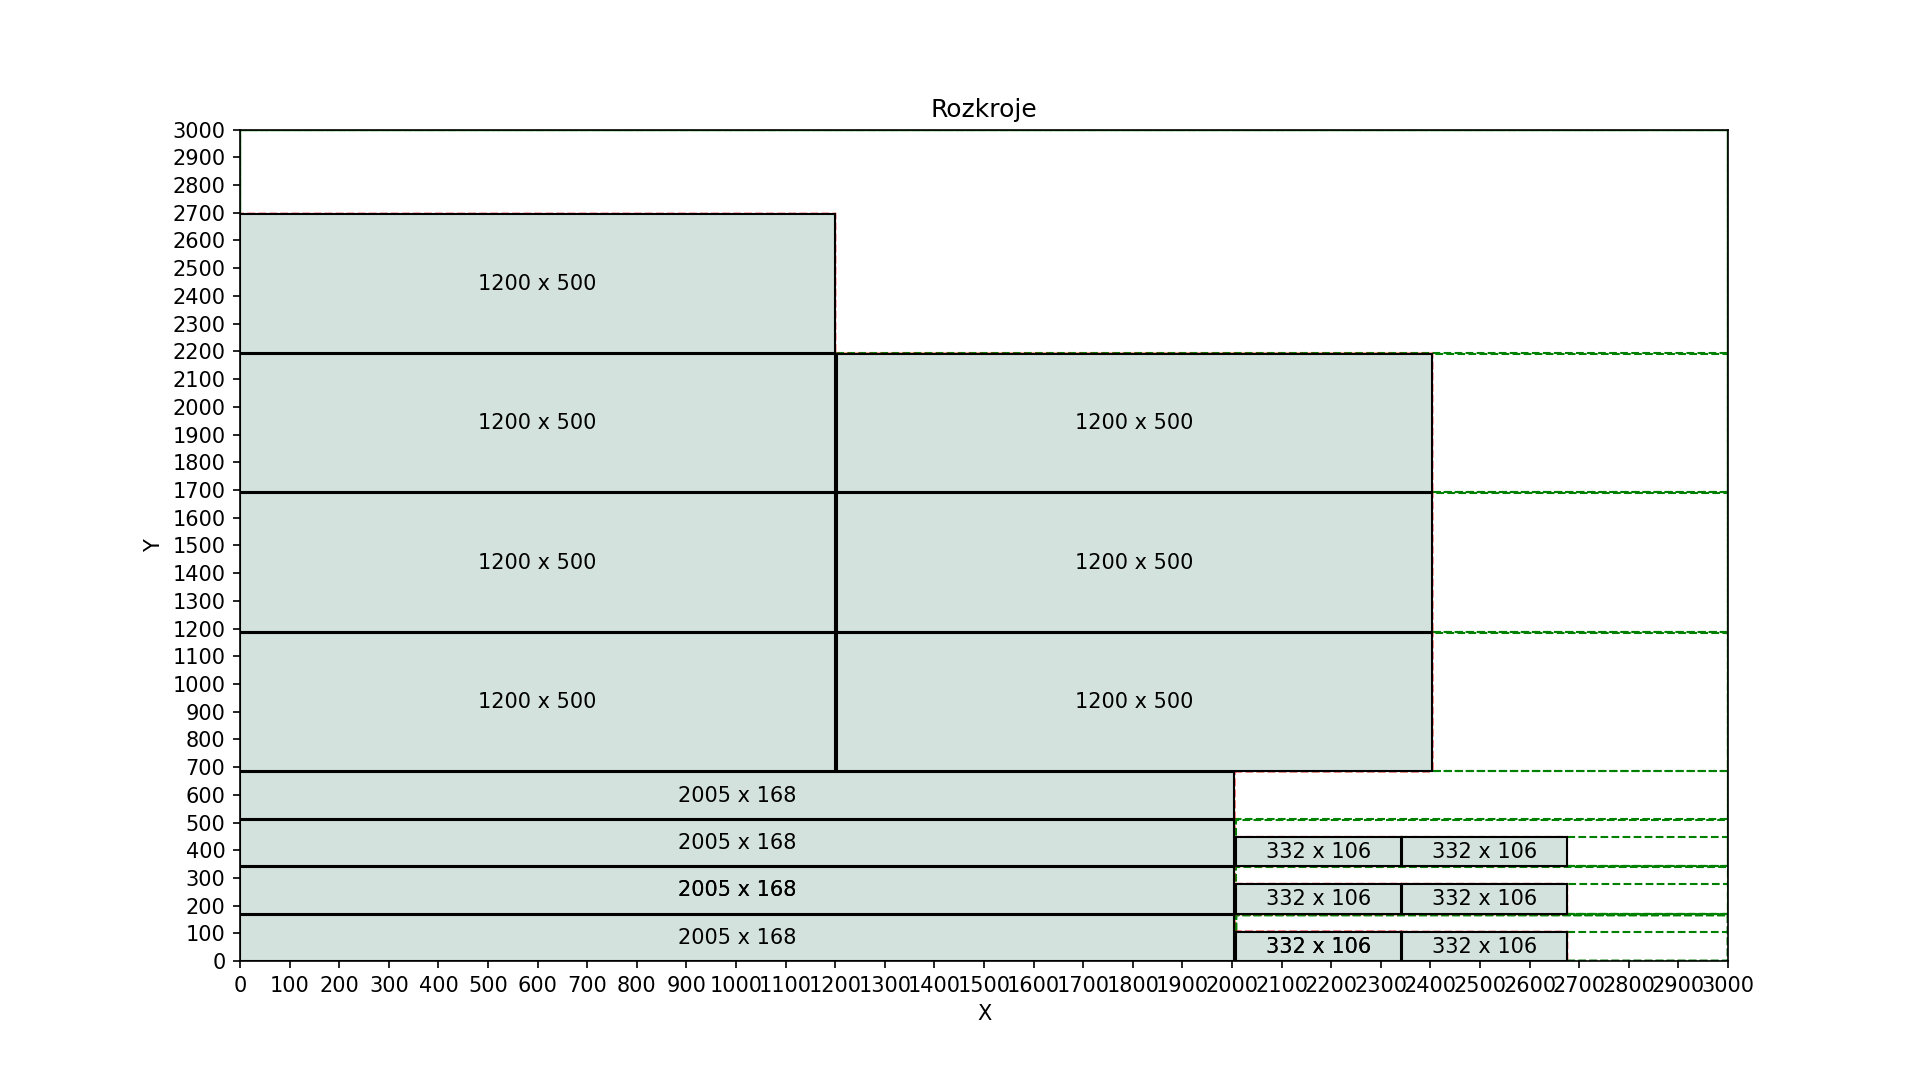
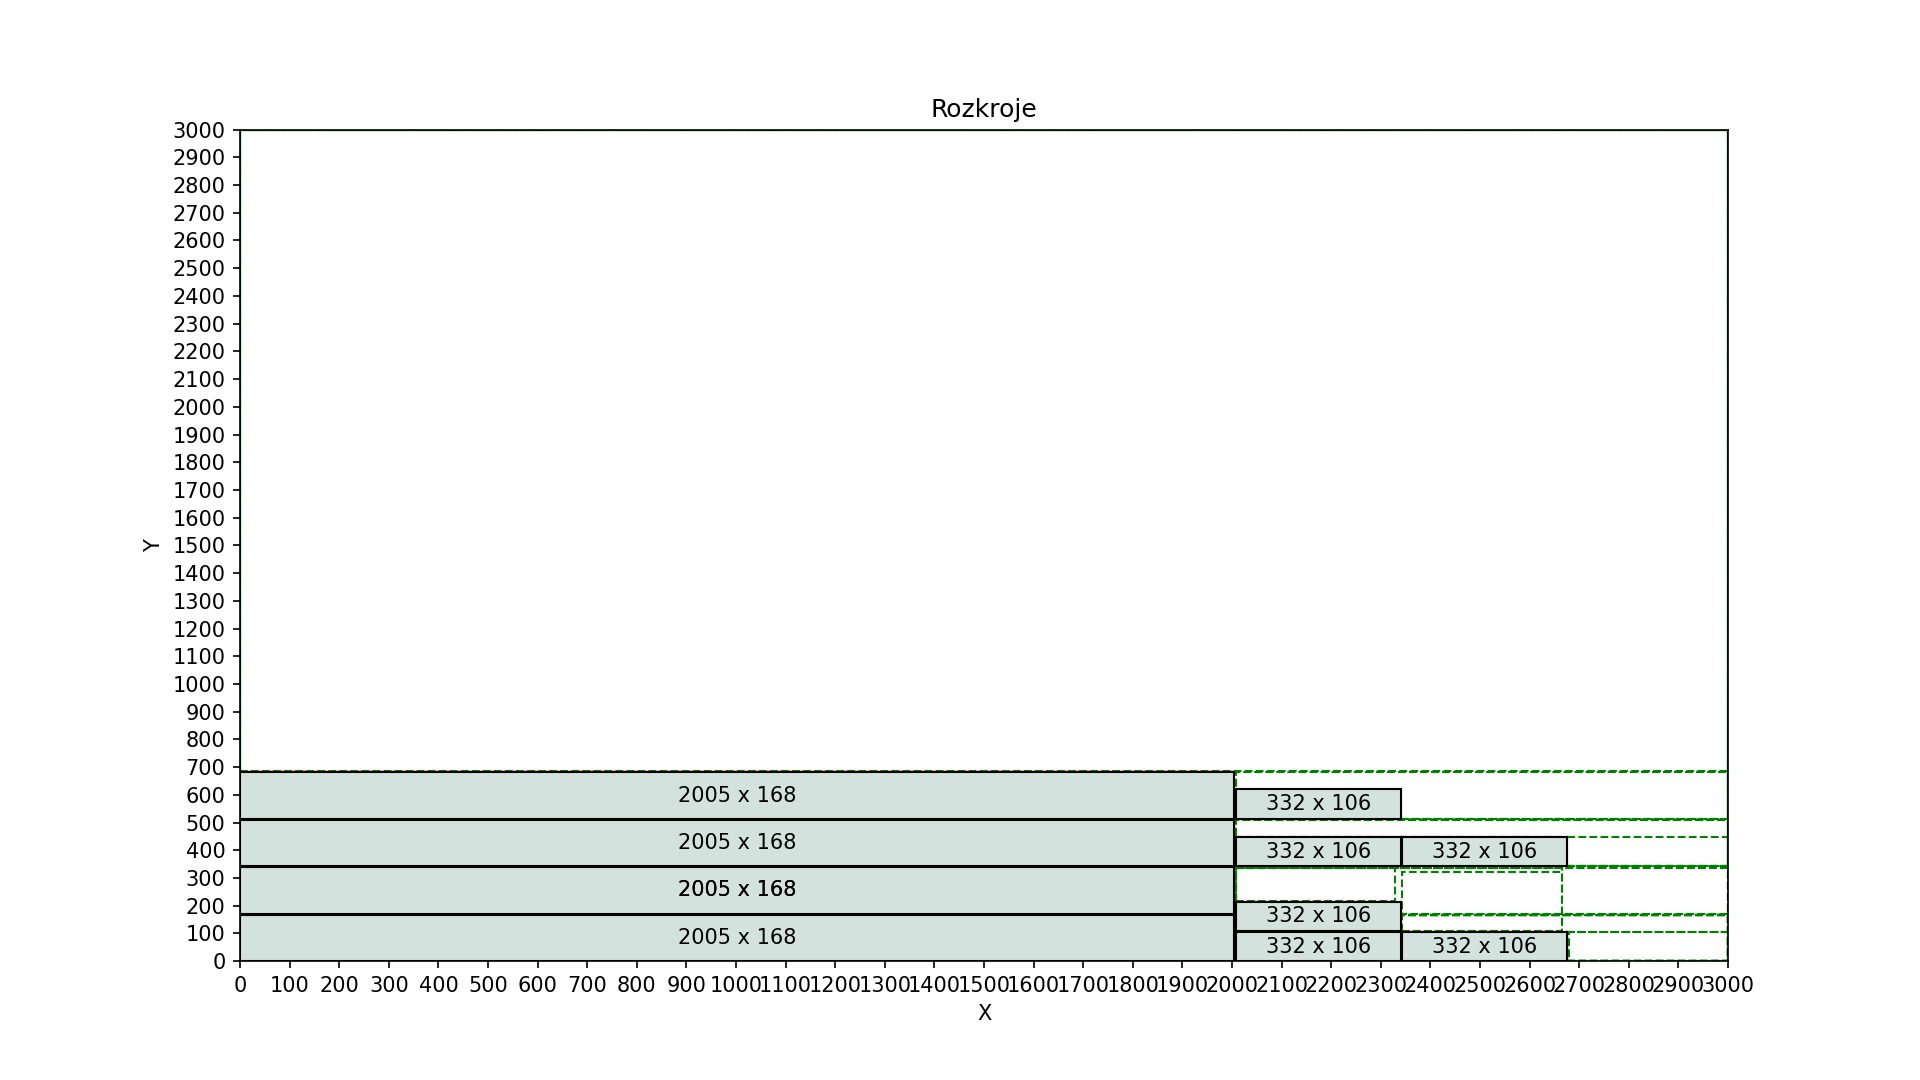
I'm done

Changed region(s): [[0.125, 0.1833, 0.75, 0.7639], [0.625, 0.7944, 0.8438, 0.8861]]

diff --git a/AutoWood_Backend/product/cut_optimizer/board_based-Optimizer_2.py b/AutoWood_Backend/product/cut_optimizer/board_based-Optimizer_2.py
@@ -63,120 +63,51 @@ def add_format(board, format_width, format_height):
 
 
 
-def cut_first_board(boards,board,format_width, format_height):
-
-    # Return the remaining size of the board in the same Y
+def cut_first_board(boards, board, format_width, format_height):
+    """Cuts the first board into pieces after placing the first format."""
     remaining_Y = board.Y - format_height - SAW
-    new_board_start_y = board.start_y + format_height + SAW 
     remaining_X = board.X - format_width - SAW
-    new_board_start_x = board.start_x + format_width + SAW
-    #print(f"remaining_y: {remaining_Y},new_board_start_y: {new_board_start_y}\nremaining_X: {remaining_X},new_board_start_x: {new_board_start_x}")
 
-    # CUT
-    #print(f"Before cut self.Y: {self.Y}")
     board.Y = format_height
-    #print(f"After cut self.Y: {self.Y} ")
     board.X = format_width
 
-    # Create new board in the same ROW
-    new_board_same_row = Board(remaining_X,board.Y, new_board_start_x, 0)
-    # Create new board above the row
-    new_board_higher_row = Board(X, remaining_Y, 0, new_board_start_y)
+    # Create new boards
+    if remaining_X > 0:
+        boards.append(Board(remaining_X, board.Y, board.start_x + format_width + SAW, board.start_y))
+    if remaining_Y > 0:
+        boards.append(Board(X, remaining_Y, 0, board.start_y + format_height + SAW))
 
-    boards.append(new_board_higher_row)
-    boards.append(new_board_same_row )
 
-def cut_next_board(boards,board,format_width, format_height):
-
-    # Return the remaining size of the board in the same Y
+def cut_next_board(boards, board, format_width, format_height):
+    """Cuts the board into new sections after placing a format."""
     remaining_Y = board.Y - format_height - SAW
-    new_board_start_y = board.start_y + format_height + SAW 
     remaining_X = board.X - format_width - SAW
-    new_board_start_x = board.start_x + format_width + SAW
-    #print(f"remaining_y: {remaining_Y},new_board_start_y: {new_board_start_y}\nremaining_X: {remaining_X},new_board_start_x: {new_board_start_x}")
 
-    # CUT
-    #print(f"Before cut self.Y: {self.Y}")
     board.Y = format_height
-    #print(f"After cut self.Y: {self.Y} ")
     board.X = format_width
 
-    # Create new board in the same ROW
-
+    if remaining_X > 0:
+        boards.append(Board(remaining_X, board.Y, board.start_x + format_width + SAW, board.start_y))
+    if remaining_Y > 0:
+        boards.append(Board(X, remaining_Y, 0, board.start_y + format_height + SAW))      
     
-    
-    if (remaining_X + board.start_x) < X:
-        
-        new_board_same_row = Board(remaining_X, board.Y, new_board_start_x, board.start_y)
-        boards.append(new_board_same_row )
-    
-        
-    # Create new board above the row
-    if remaining_Y > 0 or remaining_Y < Y and remaining_Y > 40:
-
-        #maybe remaining Y should be different in cutting not in the start_x = 0 ?
-        if board.start_x > 0:
-            board_above = check_board_above(boards, board)
-            
-            if board_above:
-                print(f"Board: {board}, \nboard_above: {board_above}")
-                new_board_higher_row = Board(remaining_X, (remaining_Y + board_above.Y), board.start_x, new_board_start_y)
-                boards.append(new_board_higher_row)
-                
-
-            else:
-                #remaining X mi nie pasuje ale zmieniam board.start_x na board
-
-                new_board_higher_row = Board(remaining_X, remaining_Y, board.start_x, new_board_start_y)
-                boards.append(new_board_higher_row)
-
-            
-        else:
-
-            new_board_higher_row = Board(X, remaining_Y, board.start_x, new_board_start_y)
-            boards.append(new_board_higher_row)        
-    
-def check_board_above(boards,board):
-    """ Function to check whetver there are boards above to not cut those again
-        Woodwork tip : Cutting process sometimes require to cut off last part of the board 
-        to not waste the board height. This function prevents that when boards are created as "new_board_same_row"
-    """
-    if not isinstance(boards, (Board, list)):
-        return 0
-    
-    new_boards_same_start_y = []
-    next_level = board.Y + SAW
-
+def check_board_above(boards, board):
+    """Checks if there is a free board above the given board."""
+    next_level = board.start_y + board.Y + SAW
     for board_above in boards:
-        if board_above.start_y == next_level and board_above.occupied == False and board_above.start_x == board.start_x:
-            new_boards_same_start_y.append(board_above)
+        if (board_above.start_y == next_level 
+            and board_above.occupied == False 
+            and board_above.start_x == board.start_x):
             return board_above
-        
+    return None
+
 
 def reduce_wastes(board, board_above, free_boards):
-
-    if not isinstance(board, Board) or not isinstance(board_above, Board):
-        raise ValueError("Both inputs must be instances of the Board class.")
-    
-    if board.occupied or board_above.occupied:
-        return 0  # No changes made if either board is occupied.
-    
-    else:
-        # Create a new merged board
-        new_board = Board(board.X, (board.Y + board_above.Y), board_above.start_x, board.start_y)
-        print(f"Board to delete: {board}\nSecond_Board to delete: {board_above}\nNewBoard: {new_board}")
-        
-        # Safely remove the boards and add the new board
-        try:
-            # Remove `board` and `board_above` from the list
-            free_boards = [b for b in free_boards if b != board and b != board_above]
-            
-            # Add the new board
-            free_boards.append(new_board)
-        except ValueError as e:
-            print(f"Error updating free_boards: {e}")
-        
-        return free_boards
+    """Merges two boards to reduce waste and update the free boards list."""
+    new_board = Board(board.X, board.Y + board_above.Y, board.start_x, board.start_y)
+    free_boards = [b for b in free_boards if b not in (board, board_above)]
+    free_boards.append(new_board)
+    return free_boards
 
 
 
@@ -307,77 +238,63 @@ def draw_gaps(board):
     ax.add_patch(rect)
     #print(f"Drawing board boundary: Start X={board.start_x}, Y={board.start_y}, Width={board.X}, Height={board.Y}")
 
+def handle_board_above(board, free_boards, boards):
+    """Handles merging boards above the current board to reduce waste."""
+    board_above = check_board_above(free_boards, board)
+    if board_above:
+        print(f"Board: {board}\nBoard above: {board_above}")
+        free_boards = reduce_wastes(board, board_above, free_boards)
+        scan_boards(boards)
+        plt.savefig(file_path, format='png', dpi=150)
+
+
+def handle_placement_failure(formats, formats_omitted):
+    """Handles the case when a format cannot be placed."""
+    width, height = formats.pop(0)
+    print(f"ERROR: No more space for format {width}x{height}. Adding to omitted formats.")
+    formats_omitted.append((width, height))
 
 def place_elements(formats):
-
-    # Create first board based on available boards
-    board_1 = Board(X,Y,0,0)
-    boards = []
-    boards.append(board_1)
+    """Places formats onto boards while minimizing waste."""
+    boards = [Board(X, Y, 0, 0)]  # Initialize with the first board
     formats_omitted = []
-
-    # Cut the board based on the first format 
-    width, height = formats[0][0],formats[0][1]
-    #first cut assumes it works
-    cut_first_board(boards,boards[0], width, height)
+    
+    # Place the first format
+    width, height = formats.pop(0)
+    cut_first_board(boards, boards[0], width, height)
     add_format(boards[0], width, height)
-    formats.pop(0)
-    scan_boards(boards)
-    plt.savefig(file_path, format='png', dpi=150)
+
     free_boards = [board for board in boards if not board.occupied]
-    try:
-        while formats:                
-            free_boards.sort(key=lambda board: board.start_y)
-            placement_successful = False
-            
-            for board in free_boards:
 
-                width, height = formats[0][0],formats[0][1]
-                if format_fit_check(board, width,height) and board.occupied == False:
-                        
-   
-                        add_format(board, width,height)
+    while formats:
+        free_boards.sort(key=lambda board: board.start_y)
+        placement_successful = False
 
-                        cut_next_board(free_boards,board, width,height)
+        for board in free_boards:
+            width, height = formats[0]
 
-                        #time.sleep(0.2)
+            if format_fit_check(board, width, height):
+                add_format(board, width, height)
+                cut_next_board(free_boards, board, width, height)
 
+                # Update free boards
+                free_boards = [b for b in free_boards if not b.occupied]
+                free_boards.sort(key=lambda b: b.start_y)
 
-                        free_boards = list(filter(lambda board: not board.occupied, free_boards))
-                        free_boards.sort(key=lambda board: board.start_y)
-
-
-                        boards.append(board)                                               
-                        formats.pop(0)
-                        placement_successful = True
-                        scan_boards(boards)
-                        plt.savefig(file_path, format='png', dpi=150)
-                        break
-                else:
-                    
-                    board_above = check_board_above(free_boards, board)
-                    if board_above:
-                        print(f"Board: {board}\nboard_above: {board_above}")
-                        free_boards = reduce_wastes(board, board_above, free_boards)
-                        scan_boards(free_boards)
-                        plt.savefig(file_path, format='png', dpi=150)
-                        
-
-
-            if not placement_successful:
-                print(" ERROR No more space available on existing boards. Add more space")                
-                print(f"Following formats omitted: {formats[0]}")
-                formats_omitted.append([width,height])
                 formats.pop(0)
-
-            if not free_boards:
-                print("No more space available on any boards. Add more space.")
+                placement_successful = True
                 break
+            else:
+                handle_board_above(board, free_boards, boards)
 
-                
-                
-    except Exception as e:
-        print(f"An error occured: {e}")
+        if not placement_successful:
+            handle_placement_failure(formats, formats_omitted)
+
+        if not free_boards:
+            print("No more space available on any boards. Add more space.")
+            break
+
+
 
     
 
